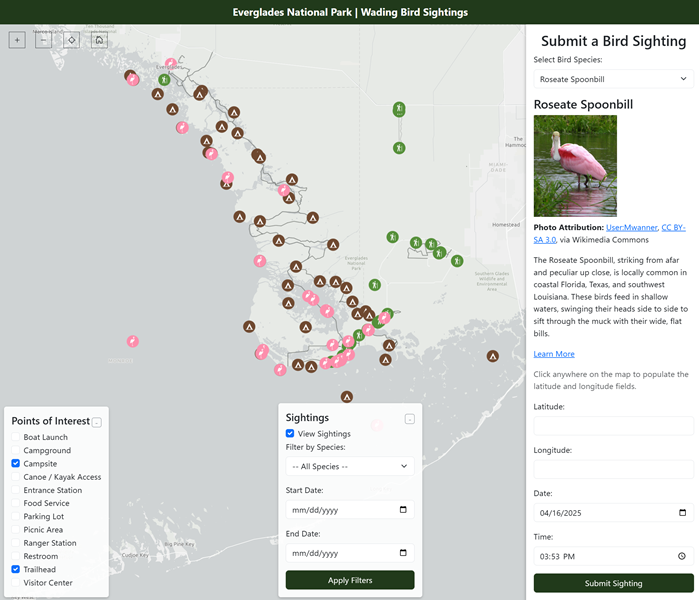
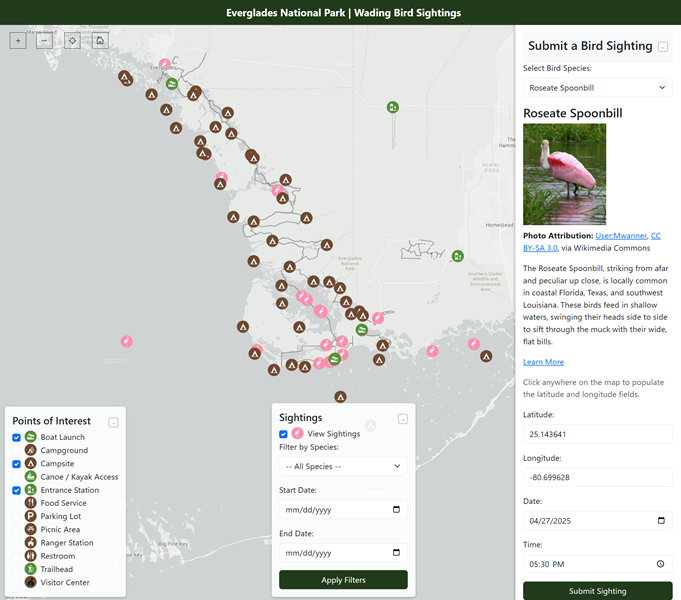
Adding Readme, adding roadmaps project, updating info, and updating images for bird sightings app

diff --git a/roadmaps.html b/roadmaps.html
@@ -1,0 +1,75 @@
+<!DOCTYPE html>
+<html lang="en">
+    
+<head>
+  <meta charset="utf-8">
+  <meta name="viewport" content="width=device-width, initial-scale=1">
+  <meta name="keywords" content="maps, cartography"/>
+  <title>Alison Case</title>
+
+  <link href="https://fonts.googleapis.com/css2?family=Noto+Sans:ital,wght@0,100..900;1,100..900&family=Noto+Serif:ital,wght@0,100..900;1,100..900&display=swap" rel="stylesheet">
+  <link rel="stylesheet" href="css/bootstrap.min.css">
+  <link rel="stylesheet" href="css/style.css">
+</head>
+
+<body>
+    <!-- Create the navbar -->
+    <ul class="nav justify-content-center">
+        <li class="nav-item">
+          <a class="nav-link" href="index.html">Projects</a>
+        </li>
+        <li class="nav-item">
+          <a class="nav-link" href="info.html">Info</a>
+        </li>
+      </ul>
+    <ul class="nav justify-content-end">
+        <li class="rounded float-end">
+            <a href="https://github.com/alisoncase">
+                <img src="assets/github-mark.png" alt="Github Link"></a>
+        </li>
+        <li class="rounded float-end">
+            <a href="https://www.linkedin.com/in/alison-case/">
+                <img src="assets/LinkedIn-mark.png"  alt="LinkedIn Link"></a>
+        </li>
+      </ul>
+
+    <!-- Create the project container -->
+    <div class="container">
+        <div class="row justify-content-center">
+            <div class="col-md-10">
+                <h2 class="text-center">Country Roadmaps Interactive Map</h2>
+                <p class="text-center"><em>April 2025</p></em>
+                <p class="portfolio-description">
+                  This app leverages modern web technologies, including JavaScript, HTML5, CSS, and libraries like Leaflet and D3, to transform the static U.S. Agency for International Development (USAID) Country Roadmap dataset for Fiscal Year 2025 into an interactive web map. The app features coordinated graphs and dynamic data visualization, allowing users to explore and analyze data across low- and middle-income countries. Designed to provide an engaging and user-friendly experience for users in international affairs and public policy domains, the app facilitates targeted comparative analysis, offers deeper insights into sustainable development progress, and supports informed decision-making and stakeholder engagement. I developed the app as my final project for my Master's in Cartography and GIS at the University of Wisconsin-Madison.
+                </p>
+                <p class="text-center">
+                <a href="https://alisoncase.github.io/roadmaps/">Click here to view the project</a>
+                </p>
+            </div>
+        </div>
+    </div>
+    <div class="container-fluid">
+        <div class="row">
+            <div class="col-md-12 portfolio-image">
+                <a href="https://alisoncase.github.io/roadmaps/"><img src="assets/Roadmaps.png" alt="global map app with coordinated scatterplot and dot plot graphs" class="center-block img-responsive"/></a>
+            </div>
+        </div>
+    </div>
+    <footer class="footer mt-auto py-3 bg-white">
+        <div class="container">
+          <div class="row">
+            <div class="col-md-6">
+              <p class="text-muted">© 2025 by Alison Case.<br>The content on this website is my personal portfolio and does not reflect the views of my employer.</br></p>
+            </div>
+            <div class="col-md-6 text-end">
+              <a href="#">Go to Top</a>
+            </div>
+          </div>
+        </div>
+      </footer>
+  </div>
+
+    <!--put your external script links here-->
+    <script type="text/javascript" src="../lib/jquery-3.5.1.min.js"></script>
+    <script type="text/javascript" src="../lib/bootstrap.min.js"></script>
+</body></html>

diff --git a/info.html b/info.html
@@ -40,12 +40,12 @@
             </div>
             <div class="col-md-6">
                 <figure class="text-end">
-                <p class="lead"><br><em>Cartographer in Training</em></br></p>
+                <p class="lead"><br><em>Cartographer and Visual Storyteller</em></br></p>
                 </figure>
             </div>            
             <div class="text-center">
                 <p>
-                    I'm a former diplomat and international development program management professional with a boundless curiosity for the world and an interest in visual storytelling. I'm currently studying cartography and geographic information systems (GIS), with a strong focus on GIS development using the newest technology in the field. Learn more about me below and connect via the LinkedIn link at the top of the page.
+                  I'm a senior strategy and program management leader with over ten years of experience as a U.S. diplomat, leading high-performing, cross-functional teams and aligning programs with strategic objectives. I am adept at developing innovative solutions, managing complex budgets, and driving process improvements. With a boundless curiosity for the world and a passion for visual storytelling, I am currently focused on cartography and geographic information systems (GIS) development, leveraging the newest technology in the field. My web portfolio showcases my GIS projects, which emphasize app development, data analysis, and visualization. Learn more about me below and connect via the LinkedIn link at the top of the page.
                 </p>
                 <hr>
             </div>
@@ -65,14 +65,25 @@
                 <li>Esri ArcGIS Pro, Online, StoryMaps, FieldMaps, Survey123</li>
                 <li>QGIS</li>
                 <li>Adobe Illustrator</li>
+                <li>Mapbox Studio</li>
+
                 <br></br>
-                <li><strong>Programming</strong></li>
+                <li><strong>Scripting and Web Development</strong></li>
                 <li>Python</li>
                 <li>JavaScript</li>
                 <li>HTML/CSS</li>
+                <li>Leaflet</li>
+                <li>D3.js</li>
+                <li>React</li>
+                <li>Bootsrap</li>
+                <li>Copilot</li>
+                <li>GitHub</li>
                 <br></br>
                 <li><strong>Database Design and Management</strong></li>
-                <li>PostgreSQL, SQL</li>
+                <li>PostgreSQL</li>
+                <li>PostGIS</li>
+                <li>SQL</li>
+                <li>Supabase</li>
                 <br></br>
                 <h2>WORK EXPERIENCE</h2>
                 <hr>
@@ -92,10 +103,13 @@
                 <li>Booz Allen Hamilton</li>
                 <li>2010</li>
                 <br></br>
+                <li><strong>Peace Corps Volunteer</strong></li>
+                <li>Peace Corps</li>
+                <li>2005-2007</li>
+                <br></br>
                 <h2>EDUCATION</h2>
                 <hr>
                 <li><strong>Master of Science – Cartography and Geographic Information Systems </strong></li>
-                <li><em>(expected May 2025)</em></li>
                 <li>University of Wisconsin-Madison</li>
                 <br></br>
                 <li><strong>Master of Science – Public Policy and Management</strong></li>

diff --git a/index.html b/index.html
@@ -42,7 +42,17 @@
                 <figure class="text-end">
                 <p>Welcome to my cartography portfolio. Here you’ll find a selection of my work. Explore my projects to learn more about what I do.</p>
                 </figure>
-            </div>            
+            </div> 
+            <div class="col-md-4">
+                <div class="card">
+                    <a href="roadmaps.html">
+                        <img class="card-img-top" src="assets/Roadmaps-thumbnail.png" alt="global map app with coordinated scatterplot and dot plot graphs"></a>
+					</a>
+                    <div class="card-body">
+                        <h4 class="card-title"><a href="roadmaps.html">Country Roadmaps Interactive Map</a></h4>
+                    </div>
+                </div>
+            </div>           
             <div class="col-md-4">
                 <div class="card">
                     <a href="everwadingbirds.html">

diff --git a/css/style.css b/css/style.css
@@ -88,3 +88,7 @@ body {
     background-color: white;
     color: #3B3B3B;
 }
+br {
+    line-height: .5;
+    margin: 0; 
+}

diff --git a/Readme.md b/Readme.md
@@ -1,0 +1,39 @@
+# Cartography and GIS Portfolio
+
+## Author
+**Alison Case**
+
+## Description
+This portfolio showcases my work in cartography and geographic information systems (GIS), highlighting my skills in app development, data visualization, and geospatial analysis. The website was developed as part of my coursework at the University of Wisconsin-Madison and serves as a personal showcase of my projects.
+
+## Features
+- **Interactive Web Maps**: Explore dynamic maps built with technologies like Leaflet, D3.js, and Mapbox Studio.
+- **Portfolio Projects**: Includes a variety of projects, such as:
+  - Country Roadmaps Interactive Map
+  - Everglades National Park Wading Bird Sightings App
+  - Public Health Outcomes and Risks App
+  - Europe's Aging Cities
+  - Public Art Guided Walking Tour
+  - Ukrainian Refugees in Europe
+  - Geographic Name Proposal App
+  - Ukiyo-e Styled Basemap Tileset
+  - StoryMap on the Rising Dengue Epidemic
+  - Vacant Homes in Japan
+  - Deaths on Lake Michigan
+  - Reference Map of Africa
+- **Responsive Design**: Built with Bootstrap for a seamless experience across devices.
+- **Technical Skills**: Demonstrates proficiency in Python, JavaScript, HTML/CSS, React, PostgreSQL, and more.
+
+## Technologies Used
+- **Frontend**: HTML, CSS, Bootstrap, JavaScript
+- **Libraries**: Leaflet, D3.js, React
+- **Backend and Databases**: Supabase, PostgreSQL, PostGIS
+- **Design Tools**: Adobe Illustrator, Mapbox Studio
+- **Version Control**: GitHub
+
+## About the Author
+I am a cartographer and visual storyteller with a passion for leveraging GIS and modern web technologies to create engaging and informative visualizations. My professional experience includes roles in international development, strategic alignment, and program management.
+
+## License
+The content on this website is my personal portfolio and does not reflect the views of my employer. © 2025 by Alison Case.
+
